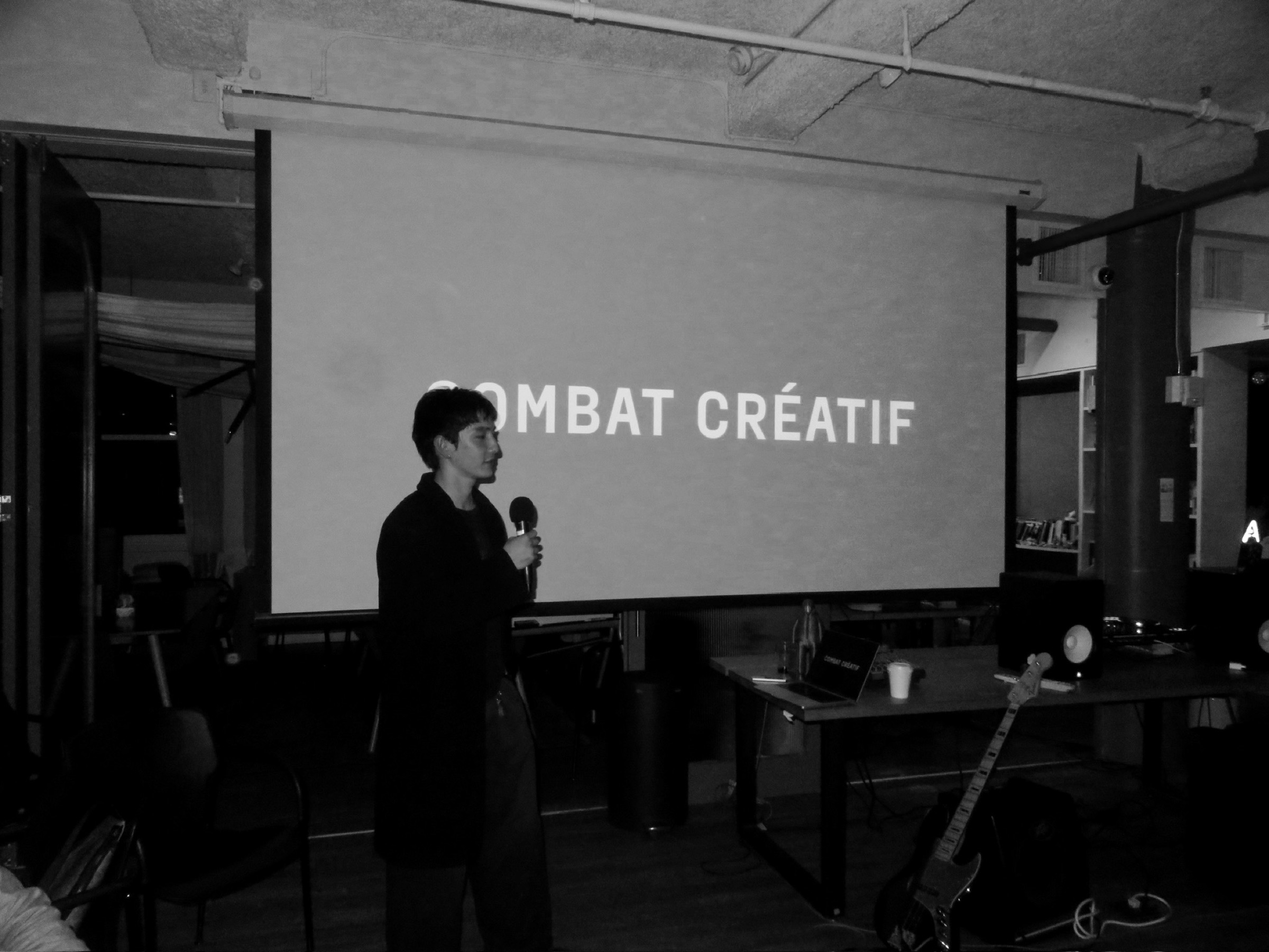
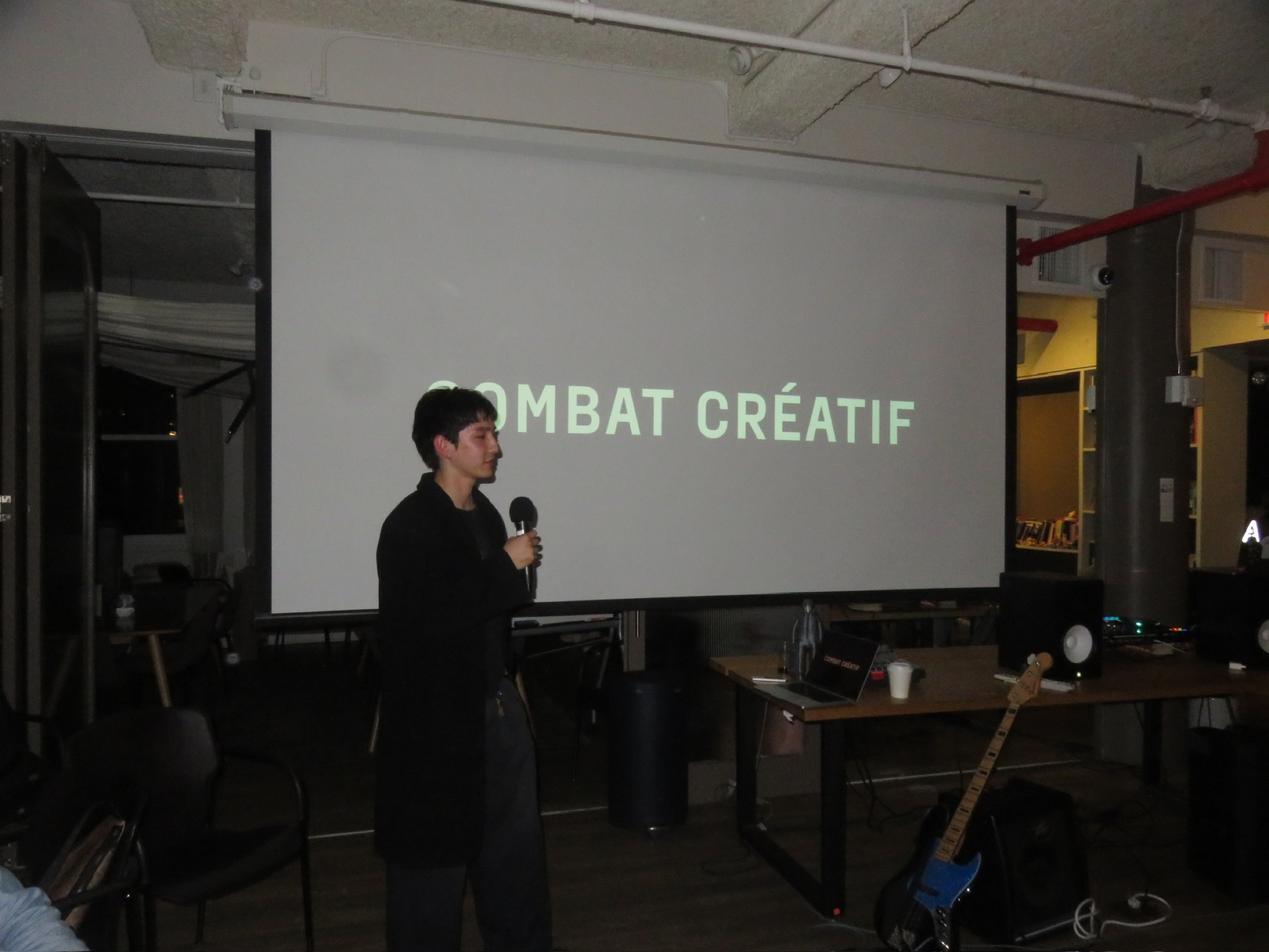
Art Movement: the thinking chapter, color photographs, calm loading
The page now includes the full deck (slides 2-9), the guest program
pair, and both Instagram carousels as a process chapter between the
intention and the night. Ten black-and-white edits are replaced with
their color originals from the unedited roll. Loading behaviour: every
frame sits on a 4% black plate and fades its image up on arrival;
videos reserve space via aspect-ratio auto fallback and fetch only
within 150% of the viewport, so opening the page no longer buffers all
seven films at once.

diff --git a/app/components/video-player.tsx b/app/components/video-player.tsx
@@ -21,24 +21,45 @@ export default function VideoPlayer({
   className?: string;
 }) {
   const videoRef = useRef<HTMLVideoElement>(null);
+  const wrapRef = useRef<HTMLDivElement>(null);
   const barRef = useRef<HTMLDivElement>(null);
+  const [near, setNear] = useState(false);
   const [playing, setPlaying] = useState(true);
   const [muted, setMuted] = useState(true);
   const [time, setTime] = useState(0);
   const [duration, setDuration] = useState(0);
 
-  // loadedmetadata can fire before hydration attaches the listeners, so
-  // sync whatever the element already knows on mount.
+  // The file loads only once the player approaches the viewport, so a
+  // page of many videos doesn't fetch them all up front.
+  useEffect(() => {
+    const el = wrapRef.current;
+    if (!el) return;
+    if (typeof IntersectionObserver === "undefined") {
+      setNear(true);
+      return;
+    }
+    const io = new IntersectionObserver(
+      (entries) => {
+        if (entries[0].isIntersecting) {
+          setNear(true);
+          io.disconnect();
+        }
+      },
+      { rootMargin: "150% 0px" },
+    );
+    io.observe(el);
+    return () => io.disconnect();
+  }, []);
+
+  // Once the source is attached, sync state and start muted playback.
   useEffect(() => {
     const v = videoRef.current;
-    if (!v) return;
+    if (!v || !near) return;
     if (v.duration) setDuration(v.duration);
-    // React drops the muted attribute in SSR HTML, so iOS blocks the
-    // parse-time autoplay; re-assert muted and start playback here.
     v.muted = true;
     if (v.paused) v.play().catch(() => {});
     setPlaying(!v.paused);
-  }, []);
+  }, [near]);
 
   const togglePlay = () => {
     const v = videoRef.current;
@@ -65,10 +86,13 @@ export default function VideoPlayer({
   };
 
   return (
-    <div className={`relative ${className}`}>
+    <div ref={wrapRef} className={`relative bg-black/[0.04] ${className}`}>
       <video
         ref={videoRef}
-        src={src}
+        src={near ? src : undefined}
+        // Reserves layout space before metadata arrives; the video's own
+        // proportions take over once known (that's what `auto` does).
+        style={{ aspectRatio: "auto 1350 / 1080" }}
         autoPlay
         muted
         loop

diff --git a/app/work/[slug]/page.tsx b/app/work/[slug]/page.tsx
@@ -1,5 +1,5 @@
-import Image from "next/image";
 import Link from "next/link";
+import FadeImage from "../../components/fade-image";
 import VideoPlayer from "../../components/video-player";
 import { notFound } from "next/navigation";
 import { getWorks } from "../../lib/content";
@@ -33,8 +33,10 @@ function Frame({
   className?: string;
 }) {
   return (
-    <div className={`relative w-full overflow-hidden ${aspect} ${className}`}>
-      <Image
+    <div
+      className={`relative w-full overflow-hidden bg-black/[0.04] ${aspect} ${className}`}
+    >
+      <FadeImage
         draggable={false}
         src={image}
         alt={alt}

diff --git a/app/components/fade-image.tsx b/app/components/fade-image.tsx
@@ -1,0 +1,22 @@
+"use client";
+
+import Image, { type ImageProps } from "next/image";
+import { useState } from "react";
+
+/* An Image that fades up once its pixels arrive, so frames fill in
+   softly instead of popping. The parent supplies the plate colour. */
+export default function FadeImage({
+  className = "",
+  ...props
+}: ImageProps) {
+  const [loaded, setLoaded] = useState(false);
+  return (
+    <Image
+      {...props}
+      onLoad={() => setLoaded(true)}
+      className={`${className} transition-opacity duration-500 ${
+        loaded ? "opacity-100" : "opacity-0"
+      }`}
+    />
+  );
+}

diff --git a/public/work/the-art-movement/index.md b/public/work/the-art-movement/index.md
@@ -15,6 +15,48 @@ The Art Movement was the first event by Combat Créatif — one night for about 
 
 The intention was simple: transfer creative inspiration directly from artist to audience, then give that energy somewhere to go.
 
+Before it was a night it was a deck, a program, and an hour-by-hour rundown of the room. The deck framed the two halves; a printed program met guests at the door; each featured artist received a three-page invitation laying out the format, the audience, and what we would provide.
+
+![](slideshow-2.jpg)
+
+![](slideshow-3.jpg)
+
+![](slideshow-4.jpg)
+
+![](slideshow-5.jpg)
+
+![](slideshow-6.jpg)
+
+![](slideshow-7.jpg)
+
+![](slideshow-8.jpg)
+
+![](slideshow-9.jpg)
+
+![](program-1.jpg) ![](program-2.jpg)
+
+The announcement ran as two carousels on Instagram.
+
+![](post1-01.jpg) ![](post1-02.jpg)
+
+![](post1-03.jpg) ![](post1-04.jpg)
+
+![](post1-05.jpg) ![](post1-06.jpg)
+
+![](post1-09.jpg) ![](post1-10.jpg)
+
+![](post2-01.jpg) ![](post2-02.jpg)
+
+![](post2-03.jpg) ![](post2-04.jpg)
+
+![](post2-05.jpg) ![](post2-06.jpg)
+
+![](post2-07.jpg) ![](post2-08.jpg)
+
+![](post2-09.jpg) ![](post2-10.jpg)
+
+Then the night.
+
 ![](demo-intro.mp4)
 
 ![](IMG_5014.jpg) ![](IMG_5018.jpg)
